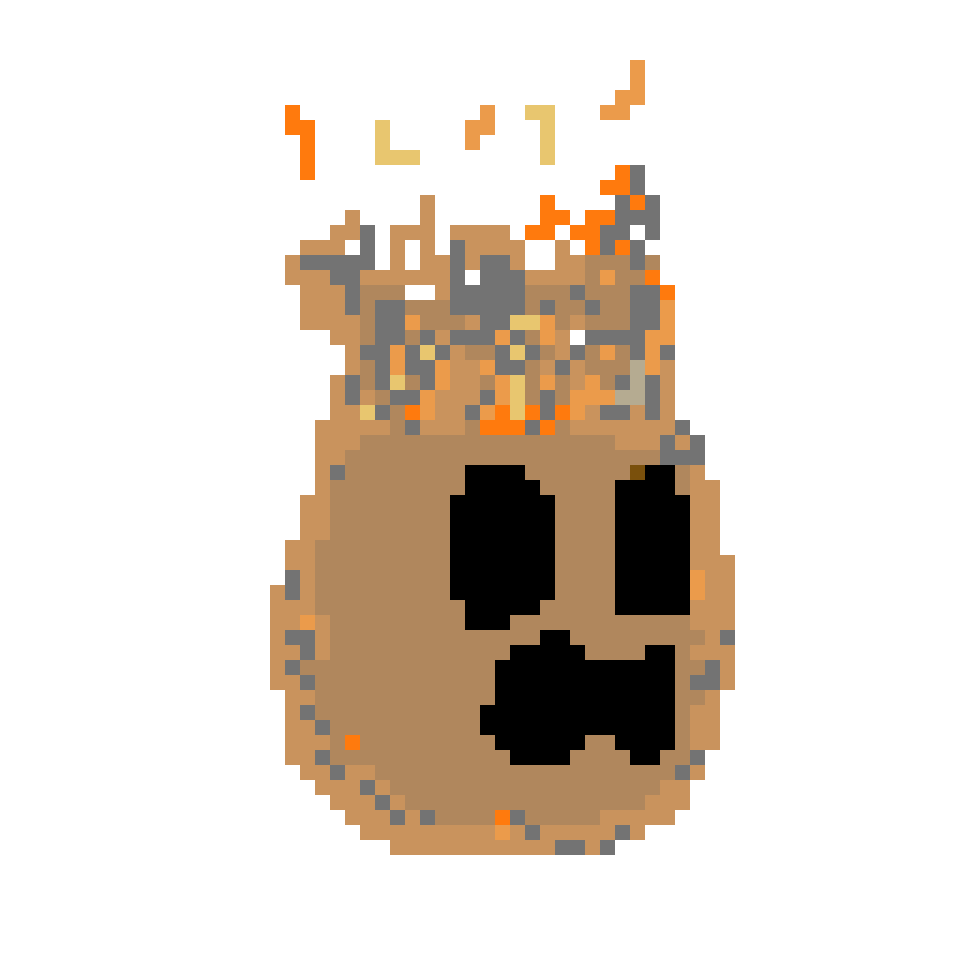
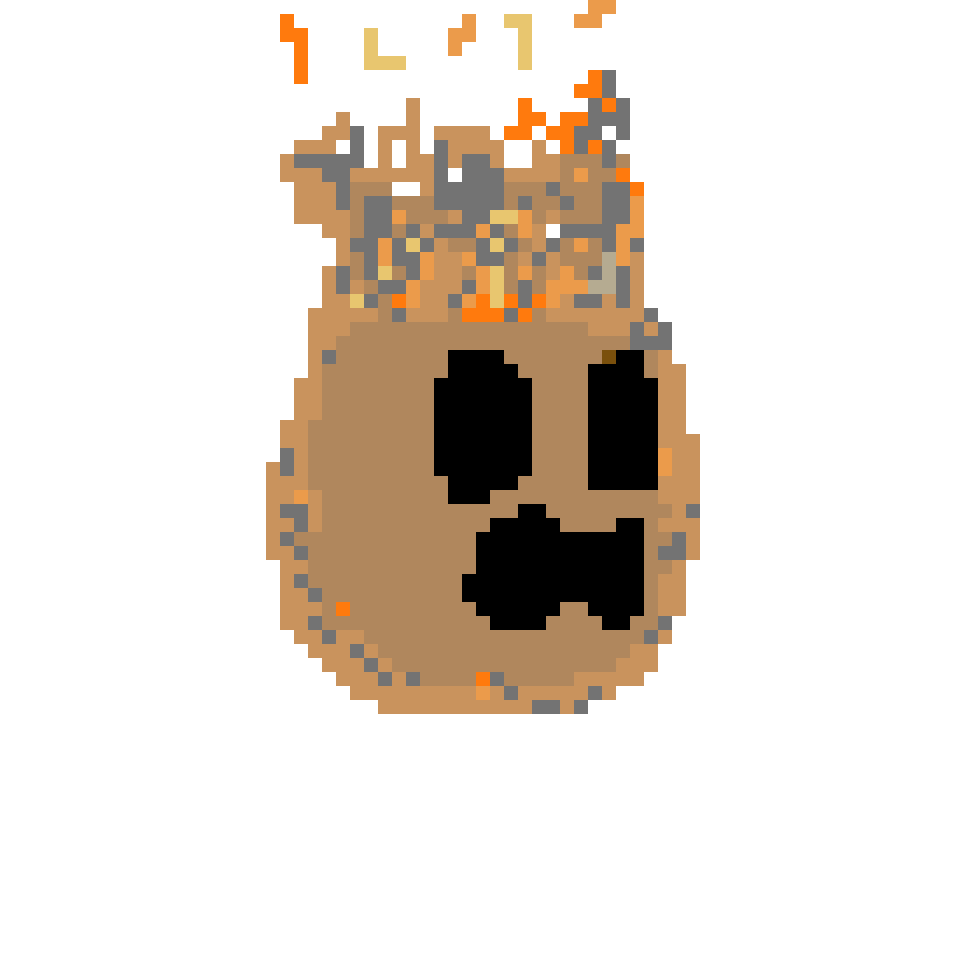
Finalized exploder
Fixed death logic, some art

Changed region(s): [[0.25, 0.0, 0.7812, 0.9062], [0.3438, 0.0312, 0.4062, 0.0938]]

diff --git a/Rogue Run/Assets/Scripts/Enemies/ExploderAttack.cs b/Rogue Run/Assets/Scripts/Enemies/ExploderAttack.cs
@@ -41,10 +41,13 @@ public class ExploderAttack : MonoBehaviour
                 : new Vector2(-knockBack.x, knockBack.y);
 
 
-        //hit
-        damageable.Hit(AD, deliveredKnockBack);
-        //_selfDamageable.KillSelf();
-        //destroys
-        Destroy(transform.parent.gameObject);
+        if (transform.parent.GetComponent<Damageable>().IsAlive)
+        {
+            //hit if still alive
+            damageable.Hit(AD, deliveredKnockBack);
+            
+            //destroys
+            Destroy(transform.parent.gameObject);
+        }
     }
 }
